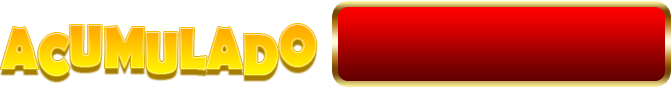
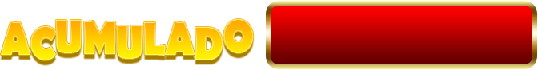
jackpot ui

diff --git a/slots/src/slotGame/Halloween.ts b/slots/src/slotGame/Halloween.ts
@@ -23,6 +23,8 @@ class Halloween extends SlotMachine{
 /******************************************************************************************************************************************************************/    
 
     protected showJackpot( jackpot: number, jackpotMinBet: number, betConfig: Array<Object> ){
-        this.addChild( this.jackpotArea = new JackpotLayer( new egret.Point( 192, 30 ), jackpot, jackpotMinBet, betConfig, new egret.Point( 0, 0 ), new egret.Rectangle( 86, 92, 437, 40 ), 40, 0xFFFFFF ) );
-    }
+        this.addChild( this.jackpotArea = new JackpotLayer( new egret.Point( 1246, 34 ), jackpot, jackpotMinBet, betConfig, new egret.Point( 0, 0 ), new egret.Rectangle( 270, 12, 260, 50 ), 40, 0xFFFFFF ) );
+		this.jackpotArea.jackpotText.stroke = 2;
+		this.jackpotArea.jackpotText.strokeColor = 0;
+	}
 }
